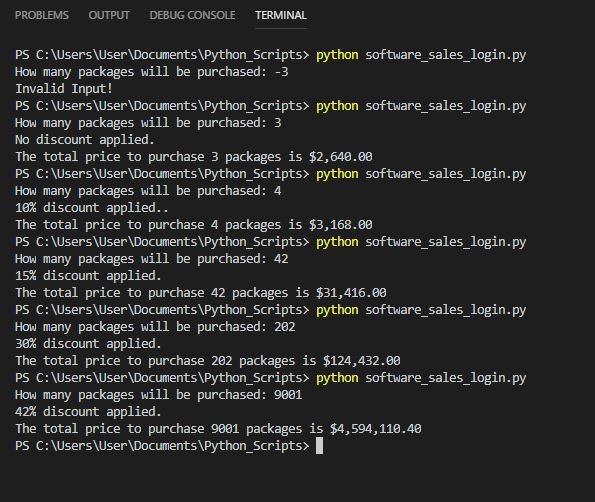
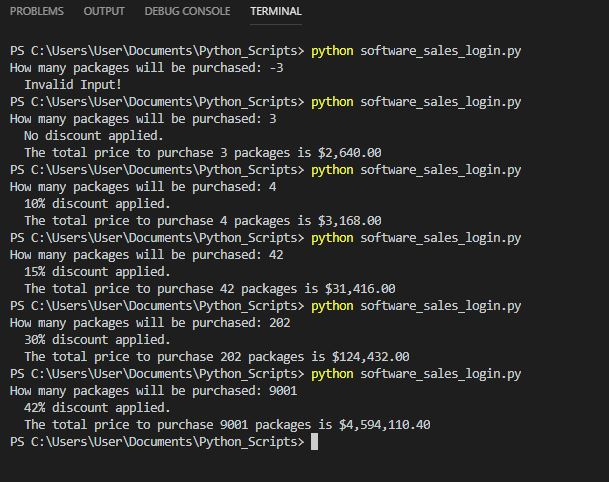
Add files via upload

Changed region(s): [[0.0, 0.0934, 0.8773, 0.9336], [0.0, 0.0, 0.5143, 0.0622]]

diff --git a/software_sales_login.py b/software_sales_login.py
@@ -34,29 +34,29 @@ def main():
     
     #Quantity less than 0
     if qty < 0:
-        print("Invalid Input!")
+        print("  Invalid Input!")
 
     #Quantity between 1 and 3
     elif qty > 0 and qty < 4:
         fprice = "{:,.2f}".format(qty*price)
-        print(f"No discount applied.\nThe total price to purchase {qty} packages is ${fprice}")
+        print(f"  No discount applied.\n  The total price to purchase {qty} packages is ${fprice}")
     
     #10% disc
     elif qty >= 4 and qty <= 39:
         fprice = "{:,.2f}".format(qty*price*0.9)
-        print(f"10% discount applied..\nThe total price to purchase {qty} packages is ${fprice}")
+        print(f"  10% discount applied.\n  The total price to purchase {qty} packages is ${fprice}")
     #15%
     elif qty >= 40 and qty <= 199:
         fprice = "{:,.2f}".format(qty*price*0.85)
-        print(f"15% discount applied.\nThe total price to purchase {qty} packages is ${fprice}")
+        print(f"  15% discount applied.\n  The total price to purchase {qty} packages is ${fprice}")
     #30%
     elif qty >= 200 and qty <= 999:
         fprice = "{:,.2f}".format(qty*price*0.7)
-        print(f"30% discount applied.\nThe total price to purchase {qty} packages is ${fprice}")
+        print(f"  30% discount applied.\n  The total price to purchase {qty} packages is ${fprice}")
     #42%
     elif qty >= 1000:
         fprice = "{:,.2f}".format(qty*price*0.58)
-        print(f"42% discount applied.\nThe total price to purchase {qty} packages is ${fprice}")
+        print(f"  42% discount applied.\n  The total price to purchase {qty} packages is ${fprice}")
 
 
 """Do not change anything below this line."""
